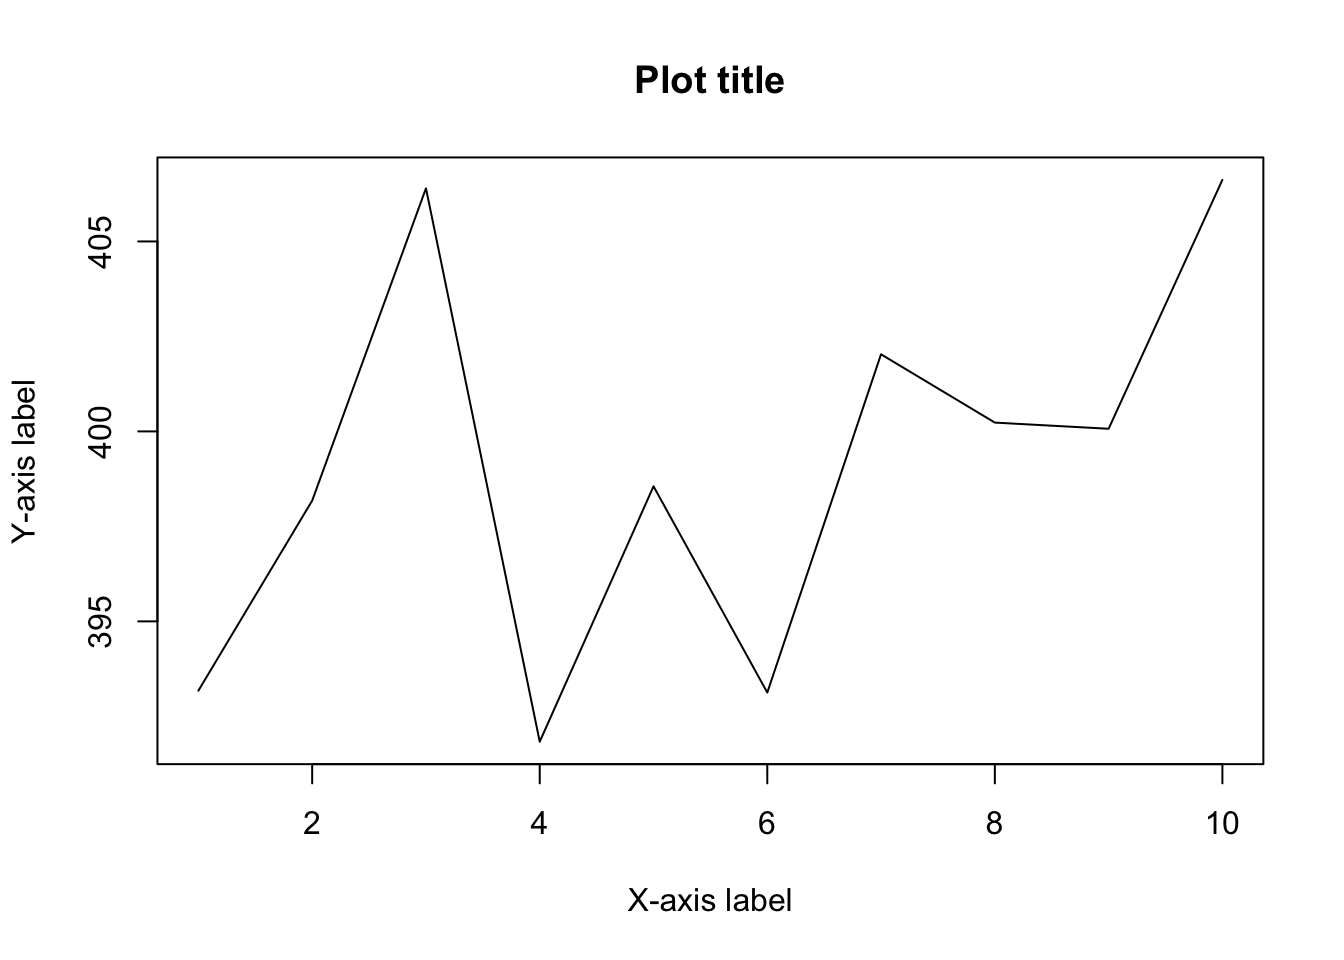
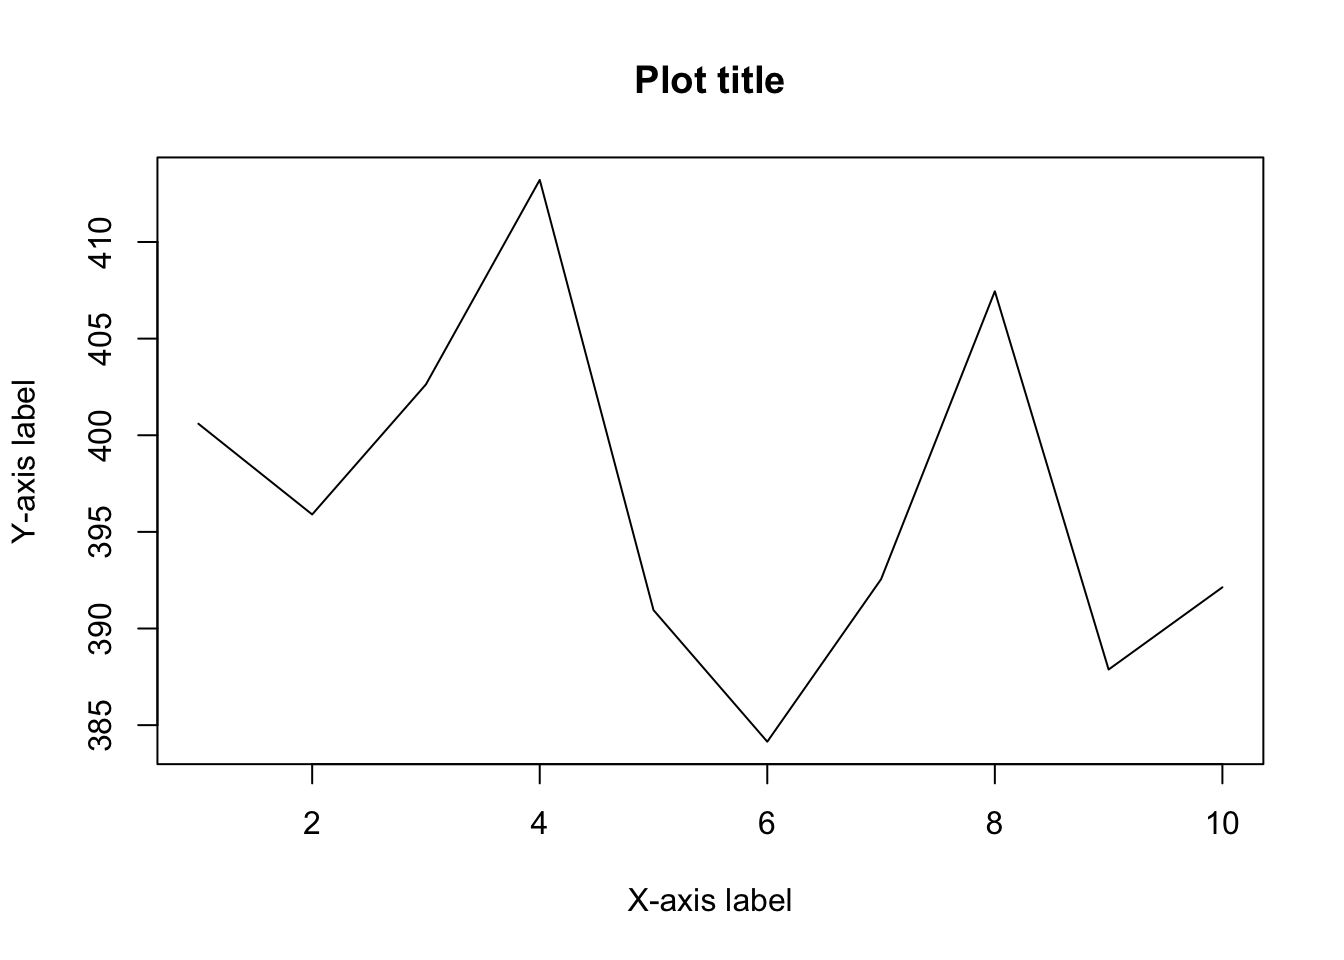
edit post

diff --git a/public/blog/how-to-install-r-and-rstudio/index.html b/public/blog/how-to-install-r-and-rstudio/index.html
@@ -134,7 +134,7 @@
                         </span>
 
                         <span class="reading-time middot">
-                            8 minute read
+                            10 minute read
                         </span>
 
                         <div class="d-none d-md-inline tags">
@@ -192,7 +192,7 @@
 </div>
 <div id="rstudio" class="section level2">
 <h2>RStudio</h2>
-<p>This is where RStudio comes handy. RStudio is an integrated development environment (IDE) for R. This software has the advantage of offering both a powerful text editor for writing your code and a place to run the code written in this editor (and I would add that it is more user-friendly). For these reasons, I highly recommend using RStudio instead of R. (Note that RStudio requires the prior installation of the R software provided by CRAN in order to be able to function properly. Just installing RStudio on your personal computer is not enough.)</p>
+<p>This is where RStudio comes handy. RStudio is an integrated development environment (IDE) for R. R and RStudio work together. R is a program that runs all your code, and RStudio is another program that allows you to control R in a more comfortable and friendly way. RStudio has the advantage of offering both a powerful text editor for writing your code and a place to run the code written in this editor. For these reasons, I highly recommend using RStudio instead of R. (Note that RStudio requires the prior installation of the R software provided by CRAN in order to be able to function properly. Just installing RStudio on your personal computer is not enough.)</p>
 <p>You can download RStudio at <a href="https://www.rstudio.com" target="_blank">www.rstudio.com</a>.</p>
 </div>
 </div>
@@ -222,20 +222,20 @@
 <p>Note that you can also write code in the console (red pane). However, I strongly recommend writing your code in the text editor (orange pane) because you can save the code written in the text editor (and thus execute it again later), while you cannot save the code written in the console.</p>
 <p>To execute code written in the text editor (orange pane), you have two options:</p>
 <ul>
-<li>Type your code and then press the “Run” button (see below) or use the keyboard shortcut CTRL + Enter (cmd + Enter on Mac). <strong>Only the line</strong> of code where your cursor is located will then be executed</li>
+<li>Type your code and then press the “Run” button (see below) or use the keyboard shortcut CTRL + Enter (cmd + Enter on Mac). <strong>Only the chunk</strong> of code where your cursor is located will then be executed.</li>
 <li>Type your code and select in the text editor the part you want to execute and then press the “Run” button or use the keyboard shortcut CTRL + Enter (cmd + Enter on Mac). All the <strong>selected</strong> code will be executed</li>
 </ul>
 <div class="figure">
 <img src="/blog/how-to-install-r-and-rstudio_files/run.png" alt="Run code in RStudio" />
 <p class="caption">Run code in RStudio</p>
 </div>
-<p>For example, try typing <code>1+1</code> in the text editor and execute it by clicking on “Run” (or CTRL/cmd + Enter). You should see the result <code>2</code> in the console, as the screenshot below:</p>
+<p>For example, try typing <code>1+1</code> in the text editor and execute it by clicking on “Run” (or CTRL/cmd + Enter). You should see the result <code>2</code> in the console, as shown in the screenshot below:</p>
 <div class="figure">
 <img src="/blog/how-to-install-r-and-rstudio_files/example%20of%20code%20executed%20in%20RStudio.png" alt="Example of code executed in RStudio" />
 <p class="caption">Example of code executed in RStudio</p>
 </div>
 <p>The text editor and the console are the panes you will use most ofen. The two other panes (the blue and green panes introduced earlier) will however still be very useful when using RStudio.</p>
-<p>The environment (green pane) displays all values stored by RStudio. For example, if you type and execute the code <code>a = 1</code>, RStudio will store the value <code>1</code> for <code>a</code>, as the screenshot below:</p>
+<p>The environment (green pane) displays all values stored by RStudio. For example, if you type and execute the code <code>a = 1</code>, RStudio will store the value <code>1</code> for <code>a</code>, as shown in the screenshot below:</p>
 <div class="figure">
 <img src="/blog/how-to-install-r-and-rstudio_files/environment%20pane%20in%20RStudio2.png" alt="Environment pane in RStudio" />
 <p class="caption">Environment pane in RStudio</p>
@@ -243,10 +243,26 @@
 <p>This means that you can now perform any computations with <code>a</code>, such that if you execute <code>a + 1</code>, RStudio will render <code>2</code> in the console. In this pane you can also see a tab with a history of the code executed and a button to import a dataset (more on <a href="/blog/how-to-import-an-excel-file-in-rstudio/">importing a dataset in RStudio</a>).</p>
 <p>The last pane (blue) is where you will find everything else such as your files, the plots, the packages, the help documentation, etc. I discuss about the Files tab in more details <a href="/blog/how-to-import-an-excel-file-in-rstudio/">here</a> so let’s discuss about the other tabs:</p>
 <ul>
-<li>Plot: where you will see the rendered plots. For instance, run <code>plot(1:10)</code> and you should see it in this tab</li>
-<li>Packages: where you see all your installed packages. Remind that RStudio is open source; everyone can write code and publish it as a package. You are then able to use this package (and all functions built inside this package) for free. Some packages are installed by default, others can be easily installed by running <code>install.packages(&quot;name of the package&quot;)</code> (do not forget <code>&quot;&quot;</code> around the name of the package!). Once the package is installed, you must load the package and only after it has been loaded you can use all the functions it contains. To load a package, run <code>library(name of the package)</code> (this time <code>&quot;&quot;</code> around the name of the package are not needed, but can still be used if you wish). Note that you will need to install packages <strong>only once</strong>, but load packages <strong>each time</strong> you open RStudio. Furthermore, note that an internet connection is required to install a package, while it is not to load a package</li>
-<li>Help: documentation about all functions written for R. To access the help of a function, run <code>help(&quot;name of the function&quot;)</code> or simply <code>?name of the function</code>. For example, to see the help about the mean function, run <code>?mean</code></li>
+<li>Plot: where you will see the rendered plots. For instance, run <code>plot(1:10)</code> and you should see it in this tab. If you plotted more than one plots, you can naviguate between them by clicking on the arrows. You can open the plot in a new window by clicking on Zoom and export your plot by clicking on Export. Those buttons are located just under the Plot tab (see figure below)</li>
+<li>Packages: where you see all your installed packages. Only fundamental functionalities come with R. Everything else must be installed from packages. Remind that RStudio is open source; everyone can write code and publish it as a package. You are then able to use this package (and all functions built inside this package) for free. Some packages are installed by default, all others must be installed by running <code>install.packages(&quot;name of the package&quot;)</code> (do not forget <code>&quot;&quot;</code> around the name of the package!). Once the package is installed, you must load the package and only after it has been loaded you can use all the functions it contains. To load a package, run <code>library(name of the package)</code> (this time <code>&quot;&quot;</code> around the name of the package are not needed, but can still be used if you wish). You also have the possibility to install and load packages via the buttons under the Packages tab. For this, click on the button Install under Packages, type the name of the package you want to install and then click on Install. You will see that the code appears in the console. To load the package, find the package you want to load in the Packages window (you can use the search box), then click on the checkbox next to the name of the package. Again, the code is run in the console. See the figures below if needed. Note that you will need to install packages <strong>only once</strong>,<a href="#fn1" class="footnote-ref" id="fnref1"><sup>1</sup></a> but load packages <strong>each time</strong> you open RStudio. Furthermore, note that an internet connection is required to install a package, while it is not required to load a package</li>
+<li>Help: documentation about all functions written for R. To access the help of a function, run <code>help(&quot;name of the function&quot;)</code> or simply <code>?name of the function</code>. For example, to see the help about the mean function, run <code>?mean</code>. You can also press F1 while having your cursor on a function</li>
 </ul>
+<div class="figure">
+<img src="/blog/how-to-install-r-and-rstudio_files/plot-buttons-rstudio.png" alt="Plot buttons in RStudio" />
+<p class="caption">Plot buttons in RStudio</p>
+</div>
+<div class="figure">
+<img src="/blog/how-to-install-r-and-rstudio_files/install-packages-rstudio1.png" alt="Step 1: click on the Install button" />
+<p class="caption">Step 1: click on the Install button</p>
+</div>
+<div class="figure">
+<img src="/blog/how-to-install-r-and-rstudio_files/install-packages-rstudio2.png" alt="Step 2: type the name of the package and click on Install" />
+<p class="caption">Step 2: type the name of the package and click on Install</p>
+</div>
+<div class="figure">
+<img src="/blog/how-to-install-r-and-rstudio_files/install-packages-rstudio3.png" alt="Step 3: load your package by clicking on the box next to the package’s name" />
+<p class="caption">Step 3: load your package by clicking on the box next to the package’s name</p>
+</div>
 </div>
 <div id="examples-of-code" class="section level1">
 <h1>Examples of code</h1>
@@ -314,10 +330,10 @@ my_mat2</code></pre>
 <pre class="r"><code>my_vec &lt;- rnorm(10, mean = 400, sd = 10)
 # Display only the first 5 values:
 head(my_vec, 5)</code></pre>
-<pre><code>## [1] 393.1760 398.1772 406.3960 391.8331 398.5543</code></pre>
+<pre><code>## [1] 400.5955 395.9016 402.6317 413.2120 390.9532</code></pre>
 <pre class="r"><code># Display only the last 5 values:
 tail(my_vec, 5)</code></pre>
-<pre><code>## [1] 393.1265 402.0290 400.2321 400.0694 406.6195</code></pre>
+<pre><code>## [1] 384.1440 392.5498 407.4474 387.8776 392.1322</code></pre>
 <p>You will have different values than mines due to the fact that they are randomly generated. If you want to make sure to have always the same random values, use <code>set.seed()</code> (with any numeric inside the brackets). For instance, with the following code, you should have the exact same values, no matter where and when you run it:</p>
 <pre class="r"><code>set.seed(42)
 rnorm(3, mean = 10, sd = 2)</code></pre>
@@ -335,6 +351,12 @@ rnorm(3, mean = 10, sd = 2)</code></pre>
 <p>This is only a very limited introduction to the possibilities of RStudio. If you want to learn more, I recommend that you read other <a href="/tags/R/">articles related to R</a>, starting with <a href="/blog/how-to-import-an-excel-file-in-rstudio/">how to import an Excel file</a> or <a href="/blog/data-manipulation-in-r/">how to manipulate a dataset</a>.</p>
 <p>Thanks for reading. I hope this article helped you to install R and RStudio. See other articles related to R <a href="/tags/r/">here</a>. As always, if you find a mistake/bug or if you have any questions do not hesitate to let me know in the comment section below, <a href="https://github.com/AntoineSoetewey/statsandr/issues" target="_blank" rel="noopener">raise an issue on GitHub</a> or <a href="/contact/">contact me</a>. Get updates every time a new article is published by <a href="/subscribe/">subscribing to this blog</a>.</p>
 </div>
+</div>
+<div class="footnotes">
+<hr />
+<ol>
+<li id="fn1"><p>Actually you will need to reinstall your packages for each new R updates. However, as long as you do not update R, you need to install your packages only once but load them everytime you open RStudio.<a href="#fnref1" class="footnote-back">↩</a></p></li>
+</ol>
 </div>
 
 

diff --git a/content/blog/how-to-install-r-and-rstudio.html b/content/blog/how-to-install-r-and-rstudio.html
@@ -48,7 +48,7 @@ output:
 </div>
 <div id="rstudio" class="section level2">
 <h2>RStudio</h2>
-<p>This is where RStudio comes handy. RStudio is an integrated development environment (IDE) for R. This software has the advantage of offering both a powerful text editor for writing your code and a place to run the code written in this editor (and I would add that it is more user-friendly). For these reasons, I highly recommend using RStudio instead of R. (Note that RStudio requires the prior installation of the R software provided by CRAN in order to be able to function properly. Just installing RStudio on your personal computer is not enough.)</p>
+<p>This is where RStudio comes handy. RStudio is an integrated development environment (IDE) for R. R and RStudio work together. R is a program that runs all your code, and RStudio is another program that allows you to control R in a more comfortable and friendly way. RStudio has the advantage of offering both a powerful text editor for writing your code and a place to run the code written in this editor. For these reasons, I highly recommend using RStudio instead of R. (Note that RStudio requires the prior installation of the R software provided by CRAN in order to be able to function properly. Just installing RStudio on your personal computer is not enough.)</p>
 <p>You can download RStudio at <a href="https://www.rstudio.com" target="_blank">www.rstudio.com</a>.</p>
 </div>
 </div>
@@ -78,20 +78,20 @@ output:
 <p>Note that you can also write code in the console (red pane). However, I strongly recommend writing your code in the text editor (orange pane) because you can save the code written in the text editor (and thus execute it again later), while you cannot save the code written in the console.</p>
 <p>To execute code written in the text editor (orange pane), you have two options:</p>
 <ul>
-<li>Type your code and then press the “Run” button (see below) or use the keyboard shortcut CTRL + Enter (cmd + Enter on Mac). <strong>Only the line</strong> of code where your cursor is located will then be executed</li>
+<li>Type your code and then press the “Run” button (see below) or use the keyboard shortcut CTRL + Enter (cmd + Enter on Mac). <strong>Only the chunk</strong> of code where your cursor is located will then be executed.</li>
 <li>Type your code and select in the text editor the part you want to execute and then press the “Run” button or use the keyboard shortcut CTRL + Enter (cmd + Enter on Mac). All the <strong>selected</strong> code will be executed</li>
 </ul>
 <div class="figure">
 <img src="/blog/how-to-install-r-and-rstudio_files/run.png" alt="Run code in RStudio" />
 <p class="caption">Run code in RStudio</p>
 </div>
-<p>For example, try typing <code>1+1</code> in the text editor and execute it by clicking on “Run” (or CTRL/cmd + Enter). You should see the result <code>2</code> in the console, as the screenshot below:</p>
+<p>For example, try typing <code>1+1</code> in the text editor and execute it by clicking on “Run” (or CTRL/cmd + Enter). You should see the result <code>2</code> in the console, as shown in the screenshot below:</p>
 <div class="figure">
 <img src="/blog/how-to-install-r-and-rstudio_files/example%20of%20code%20executed%20in%20RStudio.png" alt="Example of code executed in RStudio" />
 <p class="caption">Example of code executed in RStudio</p>
 </div>
 <p>The text editor and the console are the panes you will use most ofen. The two other panes (the blue and green panes introduced earlier) will however still be very useful when using RStudio.</p>
-<p>The environment (green pane) displays all values stored by RStudio. For example, if you type and execute the code <code>a = 1</code>, RStudio will store the value <code>1</code> for <code>a</code>, as the screenshot below:</p>
+<p>The environment (green pane) displays all values stored by RStudio. For example, if you type and execute the code <code>a = 1</code>, RStudio will store the value <code>1</code> for <code>a</code>, as shown in the screenshot below:</p>
 <div class="figure">
 <img src="/blog/how-to-install-r-and-rstudio_files/environment%20pane%20in%20RStudio2.png" alt="Environment pane in RStudio" />
 <p class="caption">Environment pane in RStudio</p>
@@ -99,10 +99,26 @@ output:
 <p>This means that you can now perform any computations with <code>a</code>, such that if you execute <code>a + 1</code>, RStudio will render <code>2</code> in the console. In this pane you can also see a tab with a history of the code executed and a button to import a dataset (more on <a href="/blog/how-to-import-an-excel-file-in-rstudio/">importing a dataset in RStudio</a>).</p>
 <p>The last pane (blue) is where you will find everything else such as your files, the plots, the packages, the help documentation, etc. I discuss about the Files tab in more details <a href="/blog/how-to-import-an-excel-file-in-rstudio/">here</a> so let’s discuss about the other tabs:</p>
 <ul>
-<li>Plot: where you will see the rendered plots. For instance, run <code>plot(1:10)</code> and you should see it in this tab</li>
-<li>Packages: where you see all your installed packages. Remind that RStudio is open source; everyone can write code and publish it as a package. You are then able to use this package (and all functions built inside this package) for free. Some packages are installed by default, others can be easily installed by running <code>install.packages(&quot;name of the package&quot;)</code> (do not forget <code>&quot;&quot;</code> around the name of the package!). Once the package is installed, you must load the package and only after it has been loaded you can use all the functions it contains. To load a package, run <code>library(name of the package)</code> (this time <code>&quot;&quot;</code> around the name of the package are not needed, but can still be used if you wish). Note that you will need to install packages <strong>only once</strong>, but load packages <strong>each time</strong> you open RStudio. Furthermore, note that an internet connection is required to install a package, while it is not to load a package</li>
-<li>Help: documentation about all functions written for R. To access the help of a function, run <code>help(&quot;name of the function&quot;)</code> or simply <code>?name of the function</code>. For example, to see the help about the mean function, run <code>?mean</code></li>
+<li>Plot: where you will see the rendered plots. For instance, run <code>plot(1:10)</code> and you should see it in this tab. If you plotted more than one plots, you can naviguate between them by clicking on the arrows. You can open the plot in a new window by clicking on Zoom and export your plot by clicking on Export. Those buttons are located just under the Plot tab (see figure below)</li>
+<li>Packages: where you see all your installed packages. Only fundamental functionalities come with R. Everything else must be installed from packages. Remind that RStudio is open source; everyone can write code and publish it as a package. You are then able to use this package (and all functions built inside this package) for free. Some packages are installed by default, all others must be installed by running <code>install.packages(&quot;name of the package&quot;)</code> (do not forget <code>&quot;&quot;</code> around the name of the package!). Once the package is installed, you must load the package and only after it has been loaded you can use all the functions it contains. To load a package, run <code>library(name of the package)</code> (this time <code>&quot;&quot;</code> around the name of the package are not needed, but can still be used if you wish). You also have the possibility to install and load packages via the buttons under the Packages tab. For this, click on the button Install under Packages, type the name of the package you want to install and then click on Install. You will see that the code appears in the console. To load the package, find the package you want to load in the Packages window (you can use the search box), then click on the checkbox next to the name of the package. Again, the code is run in the console. See the figures below if needed. Note that you will need to install packages <strong>only once</strong>,<a href="#fn1" class="footnote-ref" id="fnref1"><sup>1</sup></a> but load packages <strong>each time</strong> you open RStudio. Furthermore, note that an internet connection is required to install a package, while it is not required to load a package</li>
+<li>Help: documentation about all functions written for R. To access the help of a function, run <code>help(&quot;name of the function&quot;)</code> or simply <code>?name of the function</code>. For example, to see the help about the mean function, run <code>?mean</code>. You can also press F1 while having your cursor on a function</li>
 </ul>
+<div class="figure">
+<img src="/blog/how-to-install-r-and-rstudio_files/plot-buttons-rstudio.png" alt="Plot buttons in RStudio" />
+<p class="caption">Plot buttons in RStudio</p>
+</div>
+<div class="figure">
+<img src="/blog/how-to-install-r-and-rstudio_files/install-packages-rstudio1.png" alt="Step 1: click on the Install button" />
+<p class="caption">Step 1: click on the Install button</p>
+</div>
+<div class="figure">
+<img src="/blog/how-to-install-r-and-rstudio_files/install-packages-rstudio2.png" alt="Step 2: type the name of the package and click on Install" />
+<p class="caption">Step 2: type the name of the package and click on Install</p>
+</div>
+<div class="figure">
+<img src="/blog/how-to-install-r-and-rstudio_files/install-packages-rstudio3.png" alt="Step 3: load your package by clicking on the box next to the package’s name" />
+<p class="caption">Step 3: load your package by clicking on the box next to the package’s name</p>
+</div>
 </div>
 <div id="examples-of-code" class="section level1">
 <h1>Examples of code</h1>
@@ -170,10 +186,10 @@ my_mat2</code></pre>
 <pre class="r"><code>my_vec &lt;- rnorm(10, mean = 400, sd = 10)
 # Display only the first 5 values:
 head(my_vec, 5)</code></pre>
-<pre><code>## [1] 393.1760 398.1772 406.3960 391.8331 398.5543</code></pre>
+<pre><code>## [1] 400.5955 395.9016 402.6317 413.2120 390.9532</code></pre>
 <pre class="r"><code># Display only the last 5 values:
 tail(my_vec, 5)</code></pre>
-<pre><code>## [1] 393.1265 402.0290 400.2321 400.0694 406.6195</code></pre>
+<pre><code>## [1] 384.1440 392.5498 407.4474 387.8776 392.1322</code></pre>
 <p>You will have different values than mines due to the fact that they are randomly generated. If you want to make sure to have always the same random values, use <code>set.seed()</code> (with any numeric inside the brackets). For instance, with the following code, you should have the exact same values, no matter where and when you run it:</p>
 <pre class="r"><code>set.seed(42)
 rnorm(3, mean = 10, sd = 2)</code></pre>
@@ -191,4 +207,10 @@ rnorm(3, mean = 10, sd = 2)</code></pre>
 <p>This is only a very limited introduction to the possibilities of RStudio. If you want to learn more, I recommend that you read other <a href="/tags/R/">articles related to R</a>, starting with <a href="/blog/how-to-import-an-excel-file-in-rstudio/">how to import an Excel file</a> or <a href="/blog/data-manipulation-in-r/">how to manipulate a dataset</a>.</p>
 <p>Thanks for reading. I hope this article helped you to install R and RStudio. See other articles related to R <a href="/tags/r/">here</a>. As always, if you find a mistake/bug or if you have any questions do not hesitate to let me know in the comment section below, <a href="https://github.com/AntoineSoetewey/statsandr/issues" target="_blank" rel="noopener">raise an issue on GitHub</a> or <a href="/contact/">contact me</a>. Get updates every time a new article is published by <a href="/subscribe/">subscribing to this blog</a>.</p>
 </div>
+</div>
+<div class="footnotes">
+<hr />
+<ol>
+<li id="fn1"><p>Actually you will need to reinstall your packages for each new R updates. However, as long as you do not update R, you need to install your packages only once but load them everytime you open RStudio.<a href="#fnref1" class="footnote-back">↩</a></p></li>
+</ol>
 </div>
